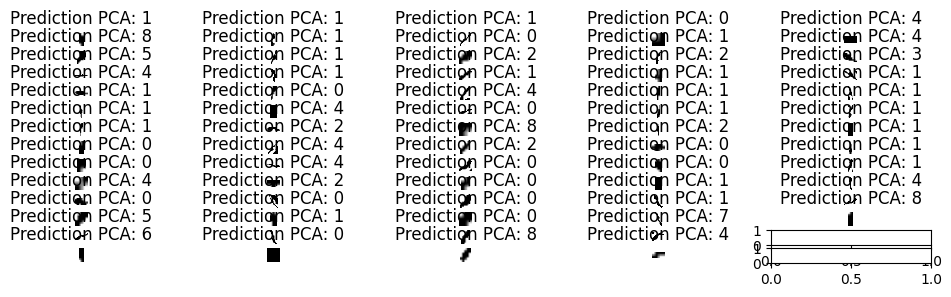
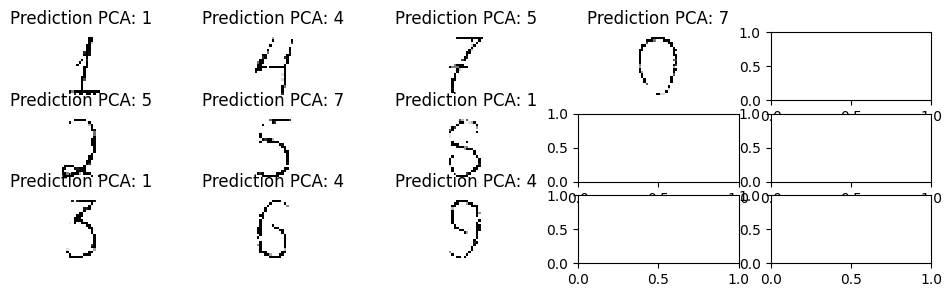
lab4 final

diff --git a/lab4.py b/lab4.py
@@ -20,28 +20,14 @@ from sklearn.model_selection import GridSearchCV
 from sklearn.neighbors import KNeighborsClassifier
 from sklearn.pipeline import Pipeline
 from sklearn.decomposition import PCA
-from skimage import io, segmentation as seg
-from skimage.util import crop
-from skimage.transform import resize
-from skimage.filters import threshold_otsu
 import sklearn.cluster
 import numpy
 from keras.datasets import mnist
 import cv2
 
+from lab5seg import segments
+
 matplotlib.use('TKAgg')
-
-#path = 'digits.jpg'
-#img = cv2.imread(path)
-
-#img_rgb = cv2.cvtColor(img, cv2.COLOR_BGR2RGB)
-#img_gray = cv2.cvtColor(img_rgb, cv2.COLOR_RGB2GRAY)
-#blur = cv2.GaussianBlur(img_gray, (15, 15), 0)
-#thresh = threshold_otsu(blur)
-#img_otsu = blur < thresh
-
-#matplotlib.pyplot.imshow(255 * img_otsu, cmap=matplotlib.pyplot.cm.gray_r)
-#matplotlib.pyplot.show()
 
 (train_X, train_y), (test_X, test_y) = mnist.load_data()
 print('X_train: ' + str(train_X.shape))
@@ -49,36 +35,18 @@ print('Y_train: ' + str(train_y.shape))
 print('X_test:  ' + str(test_X.shape))
 print('Y_test:  ' + str(test_y.shape))
 
-###############################################################################
-# Classification
-# --------------
-#
-# To apply a classifier on this data, we need to flatten the images, turning
-# each 2-D array of grayscale values from shape ``(8, 8)`` into shape
-# ``(64,)``. Subsequently, the entire dataset will be of shape
-# ``(n_samples, n_features)``, where ``n_samples`` is the number of images and
-# ``n_features`` is the total number of pixels in each image.
-#
-# We can then split the data into train and test subsets and fit a support
-# vector classifier on the train samples. The fitted classifier can
-# subsequently be used to predict the value of the digit for the samples
-# in the test subset.
-limit = 100
-# flatten the images
+limit = 10000
 n_samples = len(train_X)
 data = train_X.reshape((n_samples, -1))
 label = test_X.reshape((len(test_X), -1))
-# Create a classifier: a support vector classifier
 
 knn = KNeighborsClassifier()
 
 k_range = list(range(1, 10))
 param_grid = dict(n_neighbors=k_range)
 
-# defining parameter range
 grid = GridSearchCV(knn, param_grid, cv=2, scoring='accuracy', return_train_score=False, n_jobs=-1)
 
-# fitting the model for grid search
 grid_search = grid.fit(data[0:limit], train_y[0:limit])
 
 print(grid_search.best_params_)
@@ -90,9 +58,7 @@ clfKNN = KNeighborsClassifier(n_neighbors=grid_search.best_params_['n_neighbors'
 clfKNN.fit(data[0:limit], train_y[0:limit])
 predicted = clfKNN.predict(label[0:limit])
 
-###############################################################################
-# Below we visualize the first 4 test samples and show their predicted
-# digit value in the title.
+
 
 _, axes = matplotlib.pyplot.subplots(nrows=1, ncols=8, figsize=(12, 3))
 for ax, image, prediction in zip(axes, test_X, predicted):
@@ -108,18 +74,12 @@ print(
     f"{metrics.classification_report(test_y[0:limit], predicted)}\n"
 )
 
-###############################################################################
-# We can also plot a :ref:`confusion matrix <confusion_matrix>` of the
-# true digit values and the predicted digit values.
 
 disp = metrics.ConfusionMatrixDisplay.from_predictions(test_y[0:limit], predicted)
 disp.figure_.suptitle("Confusion Matrix KNN")
 print(f"Confusion matrix:\n{disp.confusion_matrix}")
 matplotlib.pyplot.savefig('KNN_matrix.png', bbox_inches='tight')
-#matplotlib.pyplot.show()
 
-################################################################################
-# KNN + PCA pipeline + GridSearch
 
 pipe = Pipeline([
     ('pca', PCA()),
@@ -128,7 +88,6 @@ pipe = Pipeline([
 
 parameters = {
     'pca__n_components': [2, 3, 4, 5, 6, 7],
-    #'clf__C': [1, 10, 100],
     }
 
 gs = GridSearchCV(pipe, parameters, cv=2, n_jobs=-1, verbose=1)
@@ -140,11 +99,7 @@ best_parameters = gs.best_estimator_.get_params()
 for param_name in sorted(parameters.keys()):
     print("\t%s: %r" % (param_name, best_parameters[param_name]))
 clfPCA = gs.best_estimator_
-# Predict the value of the digit on the test subset
 predicted = clfPCA.predict(label[0:limit])
-###############################################################################
-# Below we visualize the first 4 test samples and show their predicted
-# digit value in the title.
 
 _, axes = matplotlib.pyplot.subplots(nrows=1, ncols=8, figsize=(12, 3))
 for ax, image, prediction in zip(axes, test_X, predicted):
@@ -154,26 +109,21 @@ for ax, image, prediction in zip(axes, test_X, predicted):
     ax.set_title(f"Prediction: {prediction}")
 
 matplotlib.pyplot.savefig('PCA_result.png', bbox_inches='tight')
-###############################################################################
-# :func:`~sklearn.metrics.classification_report` builds a text report showing
-# the main classification metrics.
+
 
 print(
     f"Classification report for classifier {clfPCA}:\n"
     f"{metrics.classification_report(test_y[0:limit], predicted)}\n"
 )
 
-###############################################################################
-# We can also plot a :ref:`confusion matrix <confusion_matrix>` of the
-# true digit values and the predicted digit values.
 
 disp = metrics.ConfusionMatrixDisplay.from_predictions(test_y[0:limit], predicted)
 disp.figure_.suptitle("Confusion Matrix KNN+PCA")
 print(f"Confusion matrix:\n{disp.confusion_matrix}")
 matplotlib.pyplot.savefig('PCA_matrix.png', bbox_inches='tight')
-#matplotlib.pyplot.show()
-###############################################################################
-# SVC pipeline
+
+
+
 pipelineSVC = make_pipeline(StandardScaler(), SVC(random_state=1))
 param_grid_svc = {
     'svc__C': [50.0, 75, 100, 125, 150],
@@ -187,19 +137,14 @@ gsSVC = GridSearchCV(estimator=pipelineSVC,
                      refit=True,
                      n_jobs=-1)
 
-# Learn the digits on the train subset
 gsSVC.fit(data[0:limit], train_y[0:limit])
 
 print(gsSVC.best_score_)
 print(gsSVC.best_params_)
 
 clfSVC = gsSVC.best_estimator_
-# Predict the value of the digit on the test subset
-predicted = clfSVC.predict(label[0:limit])
 
-###############################################################################
-# Below we visualize the first 4 test samples and show their predicted
-# digit value in the title.
+predicted = clfSVC.predict(label[0:limit])
 
 _, axes = matplotlib.pyplot.subplots(nrows=1, ncols=8, figsize=(12, 3))
 for ax, image, prediction in zip(axes, test_X, predicted):
@@ -209,150 +154,25 @@ for ax, image, prediction in zip(axes, test_X, predicted):
     ax.set_title(f"Prediction: {prediction}")
 
 matplotlib.pyplot.savefig('SVC_result.png', bbox_inches='tight')
-###############################################################################
-# :func:`~sklearn.metrics.classification_report` builds a text report showing
-# the main classification metrics.
 
 print(
     f"Classification report for classifier {clfSVC}:\n"
     f"{metrics.classification_report(test_y[0:limit], predicted)}\n"
 )
 
-###############################################################################
-# We can also plot a :ref:`confusion matrix <confusion_matrix>` of the
-# true digit values and the predicted digit values.
-
 disp = metrics.ConfusionMatrixDisplay.from_predictions(test_y[0:limit], predicted)
 disp.figure_.suptitle("Confusion Matrix SVC")
 print(f"Confusion matrix:\n{disp.confusion_matrix}")
 matplotlib.pyplot.savefig('SVC_matrix.png', bbox_inches='tight')
-#matplotlib.pyplot.show()
-
-# plt.imshow(image)
-
-### Сегментация изображения на строки с использованием кластеризации
-
-# сценарий использовать командой python имя_программы.py файл_изображения
-# имя файла с исходным изображением
-inp = 'digits.jpg'
-# загрузить изображение в оттенках серого
-src_image = cv2.imread(inp, cv2.IMREAD_GRAYSCALE)
-
-### Подготовка изображения
-
-# инвертировать (при необходимости)
-src_image = numpy.max(src_image) - src_image
-# сгладить (размер ядра подбирается по размеру символов и уровню помех)
-image = cv2.GaussianBlur(src_image, (7, 7), 0)
-# бинаризовать (с использованием метода Оцу)
-level, image = cv2.threshold(image, 0, 255, cv2.THRESH_BINARY or cv2.THRESH_OTSU)
-
-### Выделение фрагментов
-
-# анализ компонентов связности
-# альтернативный способ с использованием функции findContours
-# в режиме RETR_EXTERNAL выделяются только внешние контуры объектов (без вложенных)
-# параметр CHAIN_APPROX_NONE отключает сглаживание контуров
-contours = cv2.findContours(image, cv2.RETR_EXTERNAL, cv2.CHAIN_APPROX_NONE)
-boxes = numpy.array([cv2.boundingRect(c) for c in contours[0]])
-
-### Устранение аномалий
-
-d = boxes[:, 3]  # высоты фрагментов
-m = numpy.median(d)  # средняя высота фрагментов
-e = numpy.abs(d - m)  # отклонения высот от среднего
-me = numpy.median(e)  # среднее отклонение
-
-# критерий отбора - отклонение не более чем n средних
-good = boxes[e <= 3 * me]
-
-### Изображения фрагментов
-fragments = [image[y:y + h, x:x + w] for x, y, w, h in good]
 
 
-# функция формирования образцов для распознавания
-def fit_size(image, rsize=(28, 28), offset=2):
-    # заготовка результата
-    result = numpy.zeros(rsize, dtype=image.dtype)
-    # исходный размер изображения
-    h, w = image.shape
-    if w > h:
-        # вписываем по ширине
-        tw = rsize[0] - offset * 2
-        th = int(tw * h / w)
-        px = offset
-        py = (rsize[1] - th) // 2
-    else:
-        # вписываем по высоте
-        th = rsize[1] - offset * 2
-        tw = int(th * w / h)
-        px = (rsize[0] - tw) // 2
-        py = offset
+ordered_samples = numpy.asarray(segments('digits.jpg'))
 
-    # tw, th - итоговый размер с учётом пропорций и рамок
-    # px, py - положение в финальном изображении
+shape = ordered_samples[0].shape[0]
+data = ordered_samples[0].reshape((shape, -1))
+shape1 = ordered_samples[1].shape[0]
+data = numpy.concatenate((data, ordered_samples[1].reshape((shape1, -1))), axis=0)
 
-    # масштабируем
-    rimage = cv2.resize(image, (tw, th), cv2.INTER_AREA)
-    # помещаем в финальное изображение
-    result[py:py + th, px:px + tw] = rimage
-    return result
-
-
-# образцы для распознавания
-samples = [fit_size(s) for s in fragments]
-
-f, axarr = matplotlib.pyplot.subplots(2, 5)
-for i in range(0, 5):
-    for j in range(0, 2):
-        index = j * 5 + i
-        if index < len(samples):
-            axarr[j, i].imshow(samples[index], cmap=matplotlib.pyplot.get_cmap('gray'))
-
-matplotlib.pyplot.savefig('Segmentation_result.png', bbox_inches='tight')
-
-### Формирование строк
-
-
-# вертикальные координаты центров фрагментов
-frag_y = good[:, 1] + 0.5 * good[:, 3]
-
-# кластеризация вертикальных координат методом DBSCAN
-# расстояние внутри кластера - на основе высоты символа
-clu = sklearn.cluster.DBSCAN(0.1 * m, min_samples=2)
-# признаки должны быть вектором, даже если признак один
-clu.fit(frag_y.reshape(-1, 1))
-
-# группировка фрагментов в строки на основе кластеризации
-# lines содержит списки номеров фрагментов в каждой строке
-lines = {}
-for i, label in enumerate(clu.labels_):
-    if label in lines:
-        lines[label].append(i)
-    else:
-        lines[label] = [i]
-
-# вычисление положения строк как среднего положений фрагментов
-# line_y содержит пары значений (метка_строки, значение)
-line_y = [(label, numpy.median([frag_y[i] for i in line])) for label, line in lines.items()]
-# сортировка строк по положению
-line_y = sorted(line_y, key=lambda item: item[1])
-ordered_lines = [lines[label] for label, _ in line_y]
-
-# горизонтальные координаты центров фрагментов
-frag_x = good[:, 0] + 0.5 * good[:, 2]
-# сортируем фрагменты в каждой строке по горизонтали
-ordered_lines = [sorted(line, key=lambda idx: frag_x[idx]) for line in ordered_lines]
-
-# финальный массив с образцами для распознавания
-a = []
-for line in ordered_lines:
-    for idx in line:
-        a.append(samples[idx])
-ordered_samples = numpy.asarray(a)
-
-shape = ordered_samples.shape[0]
-data = ordered_samples.reshape((shape, -1))
 predicted = clfKNN.predict(data)
 nrows = len(data)//5 + 1
 _, axes = matplotlib.pyplot.subplots(nrows=nrows, ncols=5, figsize=(12, 3))
